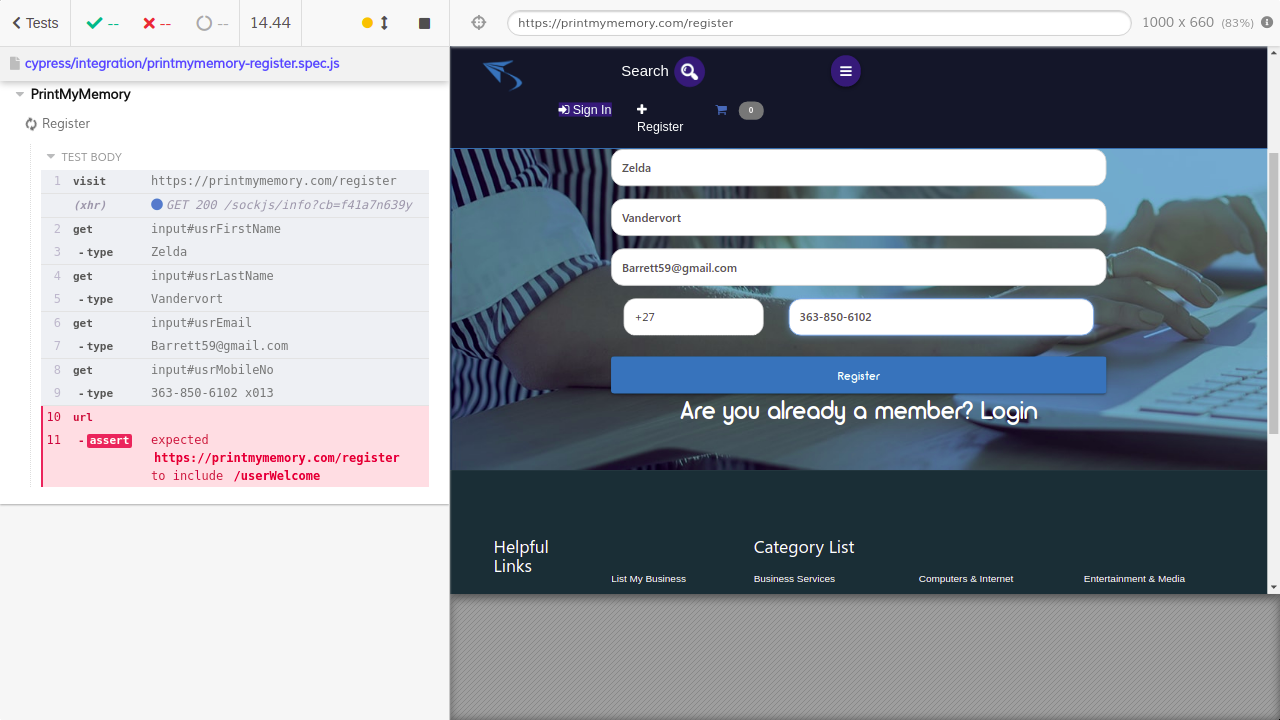
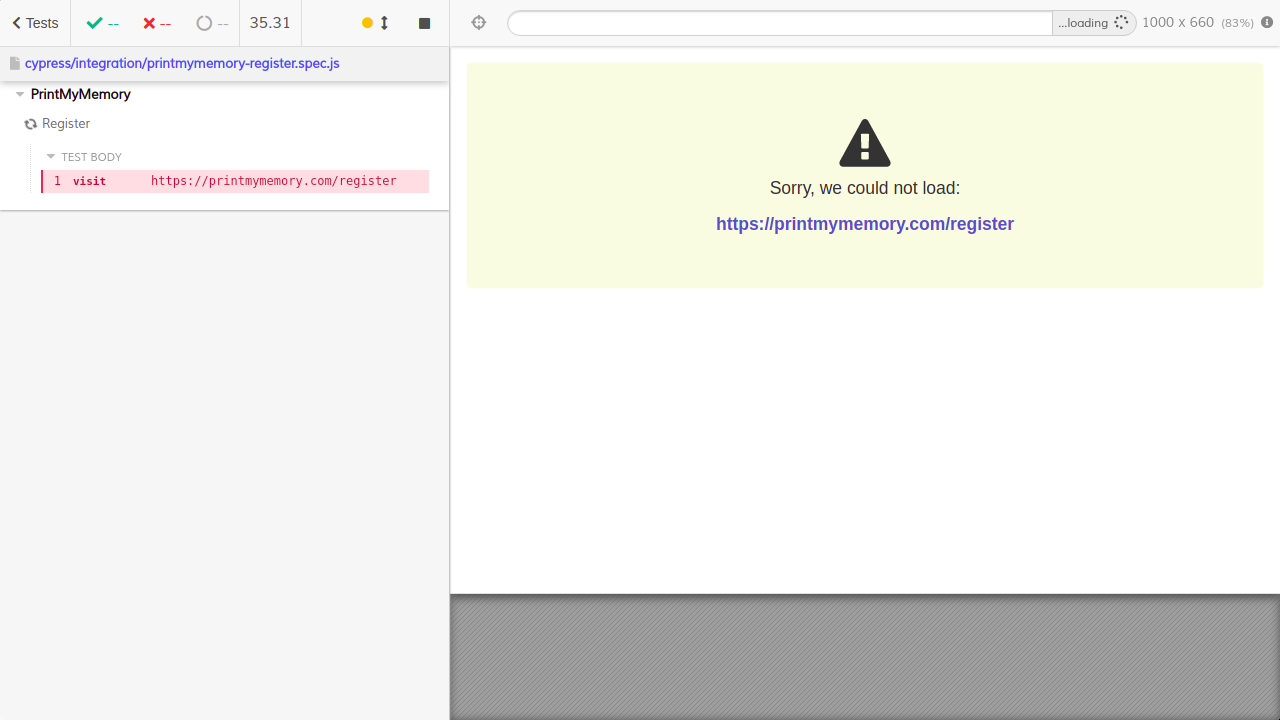
:zap: send test report by mail

diff --git a/mochawesome-report/mochawesome.html b/mochawesome-report/mochawesome.html
@@ -1,2 +1,2 @@
 <!doctype html>
-<html lang="en"><head><meta charSet="utf-8"/><meta http-equiv="X-UA-Compatible" content="IE=edge"/><meta name="viewport" content="width=device-width, initial-scale=1"/><title>Mochawesome Report</title><link rel="stylesheet" href="assets/app.css"/></head><body data-raw="{&quot;stats&quot;:{&quot;suites&quot;:1,&quot;tests&quot;:1,&quot;passes&quot;:0,&quot;pending&quot;:0,&quot;failures&quot;:1,&quot;start&quot;:&quot;2021-01-22T07:47:27.197Z&quot;,&quot;end&quot;:&quot;2021-01-22T07:47:41.997Z&quot;,&quot;duration&quot;:14800,&quot;testsRegistered&quot;:1,&quot;passPercent&quot;:0,&quot;pendingPercent&quot;:0,&quot;other&quot;:0,&quot;hasOther&quot;:false,&quot;skipped&quot;:0,&quot;hasSkipped&quot;:false},&quot;results&quot;:[{&quot;uuid&quot;:&quot;a1bc5fe9-1e7e-478d-b845-11541f5a2fe9&quot;,&quot;title&quot;:&quot;&quot;,&quot;fullFile&quot;:&quot;cypress/integration/printmymemory-register.spec.js&quot;,&quot;file&quot;:&quot;cypress/integration/printmymemory-register.spec.js&quot;,&quot;beforeHooks&quot;:[],&quot;afterHooks&quot;:[],&quot;tests&quot;:[],&quot;suites&quot;:[{&quot;uuid&quot;:&quot;06f526d6-84e8-4a32-9803-45960fc3fc3f&quot;,&quot;title&quot;:&quot;PrintMyMemory&quot;,&quot;fullFile&quot;:&quot;&quot;,&quot;file&quot;:&quot;&quot;,&quot;beforeHooks&quot;:[],&quot;afterHooks&quot;:[],&quot;tests&quot;:[{&quot;title&quot;:&quot;Register&quot;,&quot;fullTitle&quot;:&quot;PrintMyMemory Register&quot;,&quot;timedOut&quot;:null,&quot;duration&quot;:10869,&quot;state&quot;:&quot;failed&quot;,&quot;speed&quot;:null,&quot;pass&quot;:false,&quot;fail&quot;:true,&quot;pending&quot;:false,&quot;context&quot;:&quot;\&quot;/home/alite-10/Documents/Github/cypress/mochawesome-report/screenshots/printmymemory-register.spec.js/PrintMyMemory -- Register (failed).png\&quot;&quot;,&quot;code&quot;:&quot;// visits page\ncy.visit(\&quot;https://printmymemory.com/register\&quot;); // takes action like filling up the form\nvar firstName = faker.name.firstName();\nvar lastName = faker.name.lastName();\nvar email = faker.internet.email();\nvar number = faker.phone.phoneNumber();\ncy.get(\&quot;input#usrFirstName\&quot;).type(firstName);\ncy.get(\&quot;input#usrLastName\&quot;).type(lastName);\ncy.get(\&quot;input#usrEmail\&quot;).type(email);\ncy.get(\&quot;input#usrMobileNo\&quot;).type(number); // cy.get(\&quot;button#btnRegisterUser\&quot;).click();\n// Assert - make an assertion\ncy.url().should(&#x27;include&#x27;, &#x27;/userWelcome&#x27;);&quot;,&quot;err&quot;:{&quot;message&quot;:&quot;AssertionError: Timed out retrying after 4000ms: expected &#x27;https://printmymemory.com/register&#x27; to include &#x27;/userWelcome&#x27;&quot;,&quot;estack&quot;:&quot;AssertionError: Timed out retrying after 4000ms: expected &#x27;https://printmymemory.com/register&#x27; to include &#x27;/userWelcome&#x27;\n    at Context.eval (https://printmymemory.com/__cypress/tests?p=cypress/integration/printmymemory-register.spec.js:116:14)&quot;,&quot;diff&quot;:null},&quot;uuid&quot;:&quot;2ae6840b-ce6c-442a-b6c4-b787fdeea549&quot;,&quot;parentUUID&quot;:&quot;06f526d6-84e8-4a32-9803-45960fc3fc3f&quot;,&quot;isHook&quot;:false,&quot;skipped&quot;:false}],&quot;suites&quot;:[],&quot;passes&quot;:[],&quot;failures&quot;:[&quot;2ae6840b-ce6c-442a-b6c4-b787fdeea549&quot;],&quot;pending&quot;:[],&quot;skipped&quot;:[],&quot;duration&quot;:10869,&quot;root&quot;:false,&quot;rootEmpty&quot;:false,&quot;_timeout&quot;:2000}],&quot;passes&quot;:[],&quot;failures&quot;:[],&quot;pending&quot;:[],&quot;skipped&quot;:[],&quot;duration&quot;:0,&quot;root&quot;:true,&quot;rootEmpty&quot;:true,&quot;_timeout&quot;:2000}],&quot;meta&quot;:{&quot;mocha&quot;:{&quot;version&quot;:&quot;7.0.1&quot;},&quot;mochawesome&quot;:{&quot;options&quot;:{&quot;quiet&quot;:false,&quot;reportFilename&quot;:&quot;mochawesome&quot;,&quot;saveHtml&quot;:false,&quot;saveJson&quot;:true,&quot;consoleReporter&quot;:&quot;spec&quot;,&quot;useInlineDiffs&quot;:false,&quot;code&quot;:true},&quot;version&quot;:&quot;6.2.1&quot;},&quot;marge&quot;:{&quot;options&quot;:{&quot;overwrite&quot;:false,&quot;html&quot;:false,&quot;json&quot;:true},&quot;version&quot;:&quot;5.1.0&quot;}}}" data-config="{&quot;reportFilename&quot;:&quot;mochawesome&quot;,&quot;reportDir&quot;:&quot;mochawesome-report&quot;,&quot;reportTitle&quot;:&quot;cypress&quot;,&quot;reportPageTitle&quot;:&quot;Mochawesome Report&quot;,&quot;inline&quot;:false,&quot;inlineAssets&quot;:false,&quot;cdn&quot;:false,&quot;charts&quot;:false,&quot;enableCharts&quot;:false,&quot;code&quot;:true,&quot;enableCode&quot;:true,&quot;autoOpen&quot;:false,&quot;overwrite&quot;:true,&quot;timestamp&quot;:false,&quot;ts&quot;:false,&quot;showPassed&quot;:true,&quot;showFailed&quot;:true,&quot;showPending&quot;:true,&quot;showSkipped&quot;:false,&quot;showHooks&quot;:&quot;failed&quot;,&quot;saveJson&quot;:false,&quot;saveHtml&quot;:true,&quot;dev&quot;:false,&quot;assetsDir&quot;:&quot;mochawesome-report/assets&quot;,&quot;htmlFile&quot;:&quot;/home/alite-10/Documents/Github/cypress/mochawesome-report/mochawesome.html&quot;}"><div id="report"></div><script src="assets/app.js"></script></body></html>
+<html lang="en"><head><meta charSet="utf-8"/><meta http-equiv="X-UA-Compatible" content="IE=edge"/><meta name="viewport" content="width=device-width, initial-scale=1"/><title>Mochawesome Report</title><link rel="stylesheet" href="assets/app.css"/></head><body data-raw="{&quot;stats&quot;:{&quot;suites&quot;:1,&quot;tests&quot;:1,&quot;passes&quot;:0,&quot;pending&quot;:0,&quot;failures&quot;:1,&quot;start&quot;:&quot;2021-01-22T12:25:05.592Z&quot;,&quot;end&quot;:&quot;2021-01-22T12:25:41.178Z&quot;,&quot;duration&quot;:35586,&quot;testsRegistered&quot;:1,&quot;passPercent&quot;:0,&quot;pendingPercent&quot;:0,&quot;other&quot;:0,&quot;hasOther&quot;:false,&quot;skipped&quot;:0,&quot;hasSkipped&quot;:false},&quot;results&quot;:[{&quot;uuid&quot;:&quot;4c16cc68-b41f-48b7-a1aa-468962fd9088&quot;,&quot;title&quot;:&quot;&quot;,&quot;fullFile&quot;:&quot;cypress/integration/printmymemory-register.spec.js&quot;,&quot;file&quot;:&quot;cypress/integration/printmymemory-register.spec.js&quot;,&quot;beforeHooks&quot;:[],&quot;afterHooks&quot;:[],&quot;tests&quot;:[],&quot;suites&quot;:[{&quot;uuid&quot;:&quot;21f028e7-0ef2-4f7b-8a7a-c21c136f131e&quot;,&quot;title&quot;:&quot;PrintMyMemory&quot;,&quot;fullFile&quot;:&quot;&quot;,&quot;file&quot;:&quot;&quot;,&quot;beforeHooks&quot;:[],&quot;afterHooks&quot;:[],&quot;tests&quot;:[{&quot;title&quot;:&quot;Register&quot;,&quot;fullTitle&quot;:&quot;PrintMyMemory Register&quot;,&quot;timedOut&quot;:null,&quot;duration&quot;:35506,&quot;state&quot;:&quot;failed&quot;,&quot;speed&quot;:null,&quot;pass&quot;:false,&quot;fail&quot;:true,&quot;pending&quot;:false,&quot;context&quot;:&quot;\&quot;/home/alite-10/Documents/Github/cypress/mochawesome-report/screenshots/printmymemory-register.spec.js/PrintMyMemory -- Register (failed).png\&quot;&quot;,&quot;code&quot;:&quot;// visits page\ncy.visit(\&quot;https://printmymemory.com/register\&quot;); // takes action like filling up the form\nvar firstName = faker.name.firstName();\nvar lastName = faker.name.lastName();\nvar email = faker.internet.email();\nvar number = faker.phone.phoneNumber();\ncy.get(\&quot;input#usrFirstName\&quot;).type(firstName);\ncy.get(\&quot;input#usrLastName\&quot;).type(lastName);\ncy.get(\&quot;input#usrEmail\&quot;).type(email);\ncy.get(\&quot;input#usrMobileNo\&quot;).type(number); // cy.get(\&quot;button#btnRegisterUser\&quot;).click();\n// Assert - make an assertion\ncy.url().should(&#x27;include&#x27;, &#x27;/userWelcome&#x27;);&quot;,&quot;err&quot;:{&quot;message&quot;:&quot;CypressError: `cy.visit()` failed trying to load:\n\nhttps://printmymemory.com/register\n\nWe attempted to make an http request to this URL but the request failed without a response.\n\nWe received this error at the network level:\n\n  &gt; Error: ESOCKETTIMEDOUT\n\nCommon situations why this would fail:\n  - you don&#x27;t have internet access\n  - you forgot to run / boot your web server\n  - your web server isn&#x27;t accessible\n  - you have weird network configuration settings on your computer&quot;,&quot;estack&quot;:&quot;CypressError: `cy.visit()` failed trying to load:\n\nhttps://printmymemory.com/register\n\nWe attempted to make an http request to this URL but the request failed without a response.\n\nWe received this error at the network level:\n\n  &gt; Error: ESOCKETTIMEDOUT\n\nCommon situations why this would fail:\n  - you don&#x27;t have internet access\n  - you forgot to run / boot your web server\n  - your web server isn&#x27;t accessible\n  - you have weird network configuration settings on your computer\n    at http://localhost:34057/__cypress/runner/cypress_runner.js:157871:23\n    at visitFailedByErr (http://localhost:34057/__cypress/runner/cypress_runner.js:157231:12)\n    at http://localhost:34057/__cypress/runner/cypress_runner.js:157870:11\n    at tryCatcher (http://localhost:34057/__cypress/runner/cypress_runner.js:10609:23)\n    at Promise._settlePromiseFromHandler (http://localhost:34057/__cypress/runner/cypress_runner.js:8544:31)\n    at Promise._settlePromise (http://localhost:34057/__cypress/runner/cypress_runner.js:8601:18)\n    at Promise._settlePromise0 (http://localhost:34057/__cypress/runner/cypress_runner.js:8646:10)\n    at Promise._settlePromises (http://localhost:34057/__cypress/runner/cypress_runner.js:8722:18)\n    at _drainQueueStep (http://localhost:34057/__cypress/runner/cypress_runner.js:5316:12)\n    at _drainQueue (http://localhost:34057/__cypress/runner/cypress_runner.js:5309:9)\n    at Async.../../node_modules/bluebird/js/release/async.js.Async._drainQueues (http://localhost:34057/__cypress/runner/cypress_runner.js:5325:5)\n    at Async.drainQueues (http://localhost:34057/__cypress/runner/cypress_runner.js:5195:14)\nFrom Your Spec Code:\n    at Context.eval (http://localhost:34057/__cypress/tests?p=cypress/integration/printmymemory-register.spec.js:104:8)\n\nFrom Node.js Internals:\n  Error: ESOCKETTIMEDOUT\n      at ClientRequest.&lt;anonymous&gt; (/home/alite-10/.cache/Cypress/6.3.0/Cypress/resources/app/packages/server/node_modules/@cypress/request/request.js:816:19)\n      at Object.onceWrapper (events.js:421:28)\n      at ClientRequest.emit (events.js:315:20)\n      at TLSSocket.emitRequestTimeout (_http_client.js:709:9)\n      at Object.onceWrapper (events.js:421:28)\n      at TLSSocket.emit (events.js:327:22)\n      at TLSSocket.Socket._onTimeout (net.js:482:8)\n      at listOnTimeout (internal/timers.js:549:17)\n      at processTimers (internal/timers.js:492:7)\n  &quot;,&quot;diff&quot;:null},&quot;uuid&quot;:&quot;c5567036-d357-44a2-a341-85dc84a75b95&quot;,&quot;parentUUID&quot;:&quot;21f028e7-0ef2-4f7b-8a7a-c21c136f131e&quot;,&quot;isHook&quot;:false,&quot;skipped&quot;:false}],&quot;suites&quot;:[],&quot;passes&quot;:[],&quot;failures&quot;:[&quot;c5567036-d357-44a2-a341-85dc84a75b95&quot;],&quot;pending&quot;:[],&quot;skipped&quot;:[],&quot;duration&quot;:35506,&quot;root&quot;:false,&quot;rootEmpty&quot;:false,&quot;_timeout&quot;:2000}],&quot;passes&quot;:[],&quot;failures&quot;:[],&quot;pending&quot;:[],&quot;skipped&quot;:[],&quot;duration&quot;:0,&quot;root&quot;:true,&quot;rootEmpty&quot;:true,&quot;_timeout&quot;:2000}],&quot;meta&quot;:{&quot;mocha&quot;:{&quot;version&quot;:&quot;7.0.1&quot;},&quot;mochawesome&quot;:{&quot;options&quot;:{&quot;quiet&quot;:false,&quot;reportFilename&quot;:&quot;mochawesome&quot;,&quot;saveHtml&quot;:false,&quot;saveJson&quot;:true,&quot;consoleReporter&quot;:&quot;spec&quot;,&quot;useInlineDiffs&quot;:false,&quot;code&quot;:true},&quot;version&quot;:&quot;6.2.1&quot;},&quot;marge&quot;:{&quot;options&quot;:{&quot;overwrite&quot;:false,&quot;html&quot;:false,&quot;json&quot;:true},&quot;version&quot;:&quot;5.1.0&quot;}}}" data-config="{&quot;reportFilename&quot;:&quot;mochawesome&quot;,&quot;reportDir&quot;:&quot;mochawesome-report&quot;,&quot;reportTitle&quot;:&quot;cypress&quot;,&quot;reportPageTitle&quot;:&quot;Mochawesome Report&quot;,&quot;inline&quot;:false,&quot;inlineAssets&quot;:false,&quot;cdn&quot;:false,&quot;charts&quot;:false,&quot;enableCharts&quot;:false,&quot;code&quot;:true,&quot;enableCode&quot;:true,&quot;autoOpen&quot;:false,&quot;overwrite&quot;:true,&quot;timestamp&quot;:false,&quot;ts&quot;:false,&quot;showPassed&quot;:true,&quot;showFailed&quot;:true,&quot;showPending&quot;:true,&quot;showSkipped&quot;:false,&quot;showHooks&quot;:&quot;failed&quot;,&quot;saveJson&quot;:false,&quot;saveHtml&quot;:true,&quot;dev&quot;:false,&quot;assetsDir&quot;:&quot;mochawesome-report/assets&quot;,&quot;htmlFile&quot;:&quot;/home/alite-10/Documents/Github/cypress/mochawesome-report/mochawesome.html&quot;}"><div id="report"></div><script src="assets/app.js"></script></body></html>

diff --git a/index.js b/index.js
@@ -1,0 +1,29 @@
+const sgMail = require('@sendgrid/mail');
+const fs = require('fs');
+sgMail.setApiKey(process.env.SENDGRID_API_KEY);
+
+// send mail through sendgrid
+const pathToAttachment = `${__dirname}/mochawesome-report/mochawesome.html`;
+const attachment = fs.readFileSync(pathToAttachment).toString('base64');
+
+const message = {
+    to: "nikkibhalodiya03@gmail.com",
+    from: "nikkibhalodiya03@gmail.com",
+    subject: "Generated Test Report",
+    template_id: "d-8f7f36aac0ea492cae1b4ae26a6c15df",
+    attachments: [
+        {
+            content: attachment,
+            type: "text/html",
+            filename: "test-report",
+            dispostition: "inline",
+            content_id: "uid1" 
+        }
+    ]
+};
+
+sgMail.send(message).catch(error => {
+    console.log(error);
+})
+
+console.log("Mail sent: ", message);

diff --git a/cypress/support/index.js b/cypress/support/index.js
@@ -21,8 +21,13 @@ import addContext from 'mochawesome/addContext';
 // require('./commands')
 
 Cypress.on('test:after:run', (test, runnable) => {
+    console.log('test: ', test);
+    
     if(test.state === 'failed') {
+        console.log("Adding screenshots");
         const screenshot = `${Cypress.config('screenshotsFolder')}/${Cypress.spec.name}/${runnable.parent.title} -- ${test.title} (failed).png`;
         addContext({ test }, screenshot);
+        
     }
+
 })
